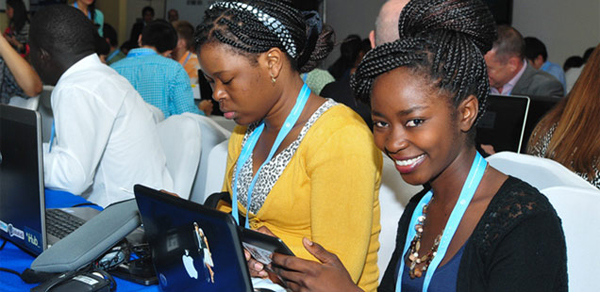
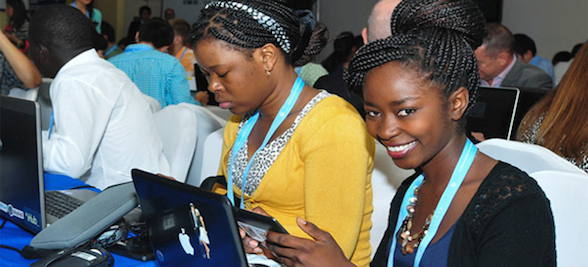
About Us
Adjusted the image and modified the content

diff --git a/index.html b/index.html
@@ -76,7 +76,7 @@
 
                     <h3 class="section-title">About Us</h3>
 
-                    <p>SMConf is an annual conference which attracts creatives, hackers and organizers from Africa to the Mount Fako area for a day of code labs, workshops and sessions of inspiration and fun.
+                    <p class="smc">SMConf is an annual conference which attracts creatives, hackers and organizers from Africa to the Mount Fako area for a day of code labs, workshops and sessions of inspiration and fun.
                     </p>
 
                     <figure>
@@ -89,14 +89,14 @@
 
                     <h3 class="section-title multiple-title">Theme</h3>
 
-                    <p>Think Global, Build Local.</p>
+                    <p class="smt">Think Global, Build Local.</p>
 
                     <ul class="list-arrow-right">
 						<li>Featuring lightning talks, design workshops, hackers sandbox and startup booths.</li>
                         <li>Everything required to challenge techies to conceive, code and collaborate.</li>
-                        <li>Have dedicated one-on-one sessions with startups at the Booths</li>
-                        <li>Geeks showcase their talents; from iconic to inspirational</li>
-                        <li>We match off the map-pushing the boundaries of technology in Africa.</li>
+                        <li>Experience dedicated one-on-one sessions with startups at MeeThe Booths</li>
+                        <li>Geeks showcase their talents; from good to great and iconic to inspirational.</li>
+                        <li>We match off the map - pushing the boundaries of technology in Africa.</li>
                     
                     </ul>
 
@@ -305,7 +305,7 @@
                             <time datetime="11:00">11:00 am</time> - <time datetime="14:00">02:00 pm</time>
                         </div>
                         <h3>Hackers Sandbox</h3>
-                        <p style="padding: 0px 10px; text-align: center;">Learn more about Cloud, Mobile, Desktop and Web. From DevOps, Scalability, Platforms, Programming Concepts, Tools and Techniques.</p>
+                        <p style="text-align: center;">Learn more about Cloud, Mobile, Desktop and Web. From DevOps, Scalability, Platforms, Programming Concepts, Tools and Techniques.</p>
                     </div>
                 </div>
                 <div class="col-md-4 col-sm-6">

diff --git a/assets/css/main.css b/assets/css/main.css
@@ -36,6 +36,15 @@ h6 {
   font-weight: 700;
 }
 
+p.smc {
+  margin: 0 0 5px;
+}
+
+p.smt {
+  margin: 0 0 23px;
+  font-size: 2em;
+}
+
 p {
   margin: 0 0 30px;
 }
